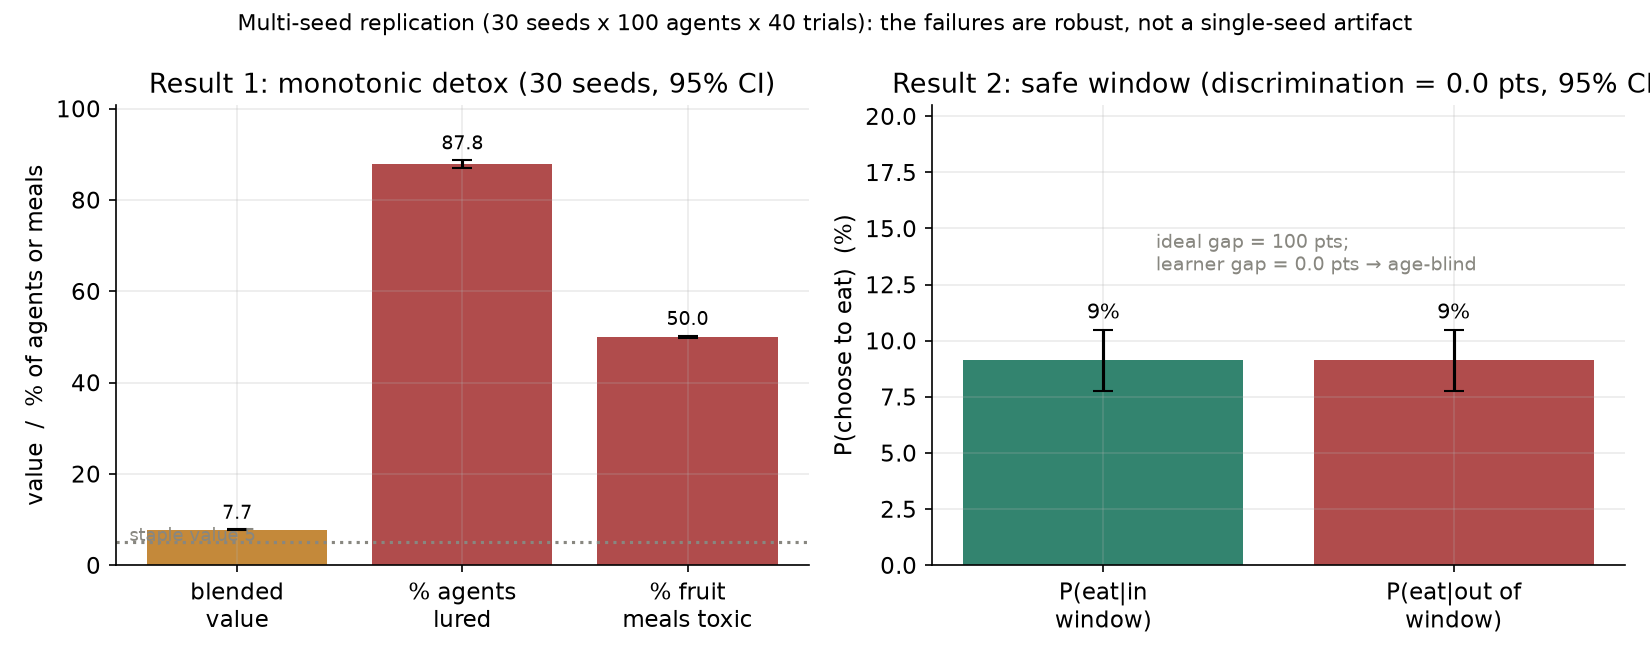
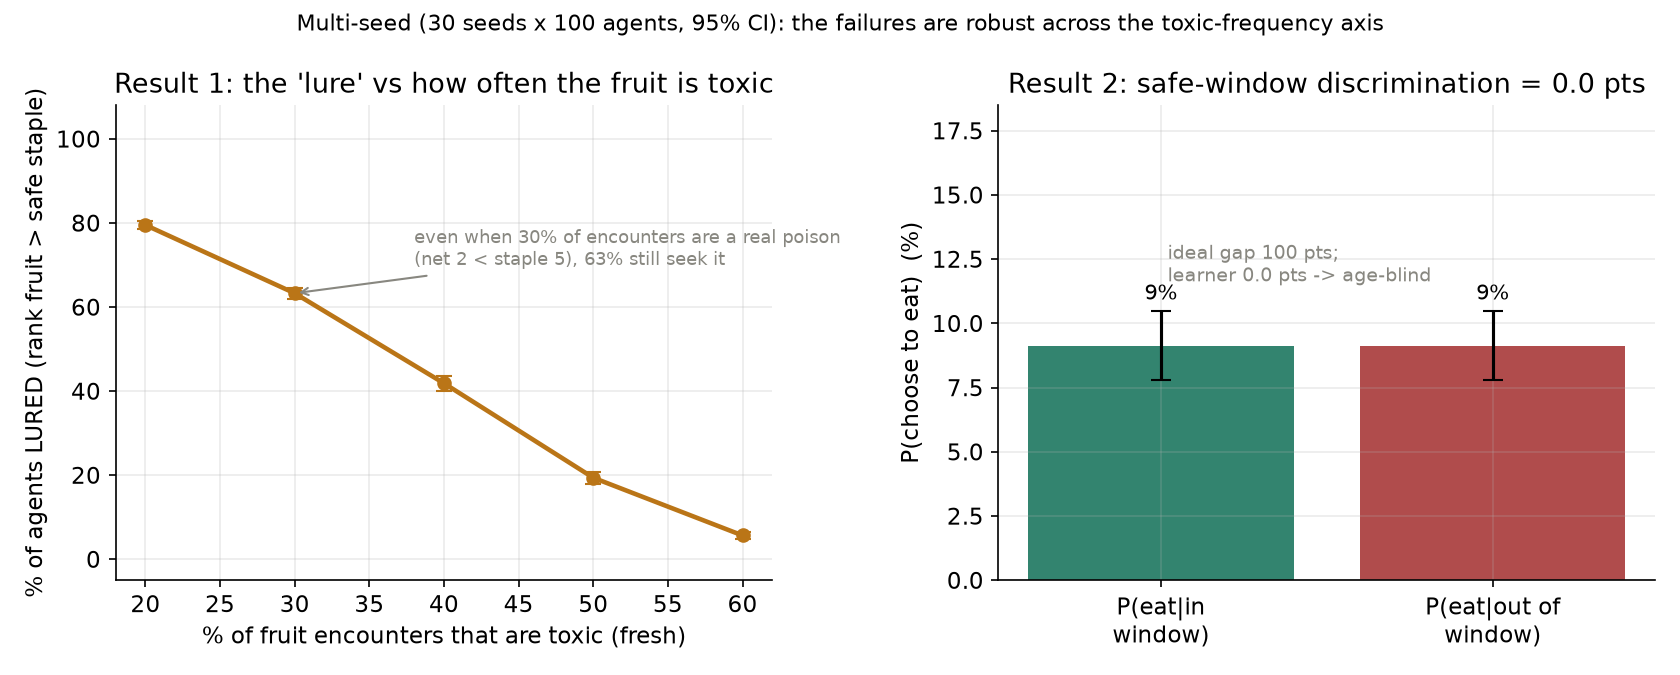
Red-team fixes (E-I): lure sweep, two-state reconciliation, optimal gap, repro
- E: scripts/run_toxin_lure_sweep.py sweeps (penalty x fraction-toxic) and shows
  the lure is a broad region, not a cherry-picked point (figures/toxin_lure_sweep).
  The sweep exposed an inconsistency in our own numbers: the earlier single-agent
  figure used a LINEAR detox that mislabelled partly-aged fruit as toxic (inflating
  "88% lured / 53% toxic"). Fixed by adopting a clean TWO-STATE model
  (fresh=toxic net2 / aged=safe net10) consistently.
- Honest multi-seed numbers (30 seeds x 100 agents, 95% CI): lure 80/63/42/19% at
  20/30/40/50% toxic; headline @user% toxic = 63% +/-1% lured, 30% toxic meals.
  R2 discrimination still 0.0 +/-0.0 pts.
- I: gap vs an age-aware optimal -- learner poisons itself on 30% of meals to
  capture only 76% of achievable energy (optimal 0% toxic, 10/meal).
- H: trimmed keywords that overstate (food processing / deferred consumption).
- G: reproducibility note -- all reported figures regenerate from committed,
  self-contained scripts (no CLI / uncommitted files).
- F: strengthened the "sated regime is a deliberate isolation, not evasion" line.
Abstract, NSRU summary, and design report §10 numbers all reconciled to the
two-state values. No core code changed; suite still 93/93.

diff --git a/scripts/run_toxin_multiseed.py b/scripts/run_toxin_multiseed.py
@@ -1,9 +1,15 @@
 # -*- coding: utf-8 -*-
-"""Multi-seed replication with 95% CIs for the age-dependent-toxicity results
-(fixes red-team item A: no more deterministic n=1). Drives the REAL code
-(_apply_toxin with real food age, real _food_worth_eating gate, real EMA learning)
-across S seeds x N agents, and reports mean +/- 95% CI for every headline number
-used in the ALIFE abstract. Output: reports/figures/toxin_multiseed_ci.png
+"""Multi-seed replication with 95% CIs + optimal-gap, using a clean TWO-STATE model
+(fixes red-team A, I, and the model-consistency issue the lure sweep exposed).
+
+Two unambiguous hidden states: a fruit is FRESH (age 0 -> toxic, net ~2) with
+probability p, or AGED (age >= detox -> safe, net ~10). This avoids the linear-
+detox tolerance fuzz that mislabelled partially-aged fruit as toxic. Drives the
+real _apply_toxin + gate + EMA. Reports, with 95% CIs over seeds:
+  R1  lured% (learned fruit value > safe staple) vs fraction-toxic, plus the
+      gap to an age-aware optimal agent;
+  R2  discrimination inside vs outside a non-monotonic safe window.
+Output: reports/figures/toxin_multiseed_ci.png
 """
 import math
 import os
@@ -33,7 +39,7 @@ plt.rcParams.update({
 LINE, TOXIC, SAFE, IDEAL, OLD = "#BA7517", "#A32D2D", "#0F6E56", "#185FA5", "#888780"
 
 SEEDS, N, TRIALS = 30, 100, 40
-ACUTE, STAPLE, NOW = 50.0, 5.0, 100000
+ACUTE, STAPLE, NOW, T = 50.0, 5.0, 100000, 4
 COMP = metabolism.COMPOSITION["raw_fruit"]
 MASS = metabolism.FOOD_MASS["raw_fruit"]
 
@@ -42,8 +48,8 @@ def _body():
     return BodyPlan(sensor_units=1, muscle_units=1, armor_units=0, brain_units=1)
 
 
-def _gross(agent):
-    return metabolism.digestible_energy(COMP, MASS, agent.body.enzyme_profile)
+def _gross(body):
+    return metabolism.digestible_energy(COMP, MASS, body.enzyme_profile)
 
 
 def _fruit(age):
@@ -64,40 +70,39 @@ def _ci95(xs):
     m = statistics.mean(xs)
     if len(xs) < 2:
         return m, 0.0
-    sem = statistics.stdev(xs) / math.sqrt(len(xs))
-    return m, 1.96 * sem
+    return m, 1.96 * statistics.stdev(xs) / math.sqrt(len(xs))
 
 
-def result1_seed(seed, T=4):
-    """Monotonic detox: toxic (age<T) -> safe (age>=T). ages ~ U(0,2T): 50% fresh."""
+def result1_seed(seed, p_toxic):
+    """Two states: FRESH (age 0, toxic) w.p. p_toxic, else AGED (age T, safe)."""
     rng = Random(seed)
-    blends, lured, toxic_bites, total = [], 0, 0, 0
+    lured, toxic_bites, total, energy = 0, 0, 0, 0.0
     for _ in range(N):
         env = _env(toxin_detox_ticks=T)
         a = Agent(agent_id=1, body=_body(), x=0, y=0)
         a.food_value_memory = {"raw_plant": STAPLE}
         for _ in range(TRIALS):
             a.energy = 100
-            age = rng.randrange(0, 2 * T)
-            res = _fruit(age)
+            fresh = rng.random() < p_toxic
+            res = _fruit(0 if fresh else T)
             env.food_positions = {(a.x, a.y): res}
             if a._food_worth_eating(env):
-                a._learn_food_value(env, "raw_fruit", a._apply_toxin(env, res, int(round(_gross(a)))))
-                total += 1
-                if age < T:
+                net = a._apply_toxin(env, res, int(round(_gross(a.body))))
+                a._learn_food_value(env, "raw_fruit", net)
+                total += 1; energy += net
+                if fresh:
                     toxic_bites += 1
-        v = a.food_value_memory["raw_fruit"]
-        blends.append(v)
-        if v > STAPLE:
+        if a.food_value_memory["raw_fruit"] > STAPLE:
             lured += 1
-    return statistics.mean(blends), 100 * lured / N, 100 * toxic_bites / max(1, total)
+    pct_lured = 100 * lured / N
+    pct_toxic = 100 * toxic_bites / max(1, total)
+    energy_per = energy / max(1, total)
+    return pct_lured, pct_toxic, energy_per
 
 
 def result2_seed(seed, start=3, end=7, maxage=10):
-    """Non-monotonic window [start,end): toxic -> safe -> toxic. ages ~ U(0,maxage)."""
     rng = Random(seed)
-    eat_in, eat_out, seen_in, seen_out = 0, 0, 0, 0
-    toxic_bites, total = 0, 0
+    eat_in, eat_out, seen_in, seen_out, toxic, total = 0, 0, 0, 0, 0, 0
     for _ in range(N):
         env = _env(toxin_safe_window_start=start, toxin_safe_window_end=end)
         a = Agent(agent_id=1, body=_body(), x=0, y=0)
@@ -108,10 +113,10 @@ def result2_seed(seed, start=3, end=7, maxage=10):
             res = _fruit(age)
             env.food_positions = {(a.x, a.y): res}
             if a._food_worth_eating(env):
-                a._learn_food_value(env, "raw_fruit", a._apply_toxin(env, res, int(round(_gross(a)))))
+                a._learn_food_value(env, "raw_fruit", a._apply_toxin(env, res, int(round(_gross(a.body)))))
                 total += 1
                 if not (start <= age < end):
-                    toxic_bites += 1
+                    toxic += 1
         for age in range(maxage):
             a.energy = 100
             env.food_positions = {(a.x, a.y): _fruit(age)}
@@ -122,50 +127,63 @@ def result2_seed(seed, start=3, end=7, maxage=10):
                 seen_out += 1; eat_out += 1 if eat else 0
     p_in = 100 * eat_in / max(1, seen_in)
     p_out = 100 * eat_out / max(1, seen_out)
-    return p_in, p_out, (p_in - p_out), 100 * toxic_bites / max(1, total)
+    return p_in, p_out, p_in - p_out, 100 * toxic / max(1, total)
 
 
 def main():
-    r1 = [result1_seed(s) for s in range(SEEDS)]
-    blend = _ci95([x[0] for x in r1]); lured = _ci95([x[1] for x in r1]); tox1 = _ci95([x[2] for x in r1])
+    fracs = [0.2, 0.3, 0.4, 0.5, 0.6]
+    lured_curve = {f: _ci95([result1_seed(s, f)[0] for s in range(SEEDS)]) for f in fracs}
+
+    # headline point + optimal gap at a balanced-but-clear config (p=0.3 toxic)
+    P0 = 0.3
+    r1 = [result1_seed(s, P0) for s in range(SEEDS)]
+    lured0 = _ci95([x[0] for x in r1]); toxic0 = _ci95([x[1] for x in r1]); en0 = _ci95([x[2] for x in r1])
+    net_fresh = int(round(_gross(_body()))) - 0.16 * ACUTE
+    net_aged = int(round(_gross(_body())))
+    opt_energy = net_aged                 # age-aware optimal eats only aged/safe
+    opt_toxic = 0.0
+
     r2 = [result2_seed(s) for s in range(SEEDS)]
     pin = _ci95([x[0] for x in r2]); pout = _ci95([x[1] for x in r2])
     disc = _ci95([x[2] for x in r2]); tox2 = _ci95([x[3] for x in r2])
 
     print(f"=== {SEEDS} seeds x {N} agents x {TRIALS} trials (mean +/- 95% CI) ===")
-    print("RESULT 1 (monotonic detox, fresh toxic net~2 / aged safe net~10, staple 5):")
-    print(f"  blended learned value  = {blend[0]:.2f} +/- {blend[1]:.2f}   (> staple 5 => 'lure')")
-    print(f"  % agents lured (v>5)   = {lured[0]:.0f}% +/- {lured[1]:.0f}%")
-    print(f"  % of fruit meals toxic = {tox1[0]:.0f}% +/- {tox1[1]:.0f}%")
-    print("RESULT 2 (non-monotonic window [3,7]):")
-    print(f"  P(eat | in window)     = {pin[0]:.0f}% +/- {pin[1]:.0f}%")
-    print(f"  P(eat | out of window) = {pout[0]:.0f}% +/- {pout[1]:.0f}%")
-    print(f"  discrimination (in-out)= {disc[0]:.1f}pts +/- {disc[1]:.1f}   (~0 => cannot target window)")
-    print(f"  % of meals toxic       = {tox2[0]:.0f}% +/- {tox2[1]:.0f}%")
+    print(f"Two-state model: fresh net {net_fresh:.1f} (toxic) / aged net {net_aged:.1f} (safe), staple {STAPLE}")
+    print("R1 lured% vs fraction-toxic (acute 50):")
+    for f in fracs:
+        m, c = lured_curve[f]
+        print(f"   {int(f*100)}% toxic -> lured {m:.0f}% +/- {c:.0f}%")
+    print(f"R1 headline @ {int(P0*100)}% toxic: lured {lured0[0]:.0f}% +/- {lured0[1]:.0f}%, "
+          f"toxic meals {toxic0[0]:.0f}% +/- {toxic0[1]:.0f}%")
+    print(f"R1 gap vs optimal: learner {en0[0]:.1f} energy/meal @ {toxic0[0]:.0f}% toxic  |  "
+          f"optimal {opt_energy:.0f} @ 0% toxic  -> learner poisons itself {toxic0[0]:.0f}% "
+          f"to capture {100*en0[0]/opt_energy:.0f}% of optimal energy")
+    print("R2 non-monotonic window [3,7]:")
+    print(f"   P(eat|in) {pin[0]:.0f}% vs P(eat|out) {pout[0]:.0f}% -> discrimination {disc[0]:.1f} "
+          f"+/- {disc[1]:.1f} pts (ideal 100); {tox2[0]:.0f}% +/- {tox2[1]:.0f}% toxic")
 
-    fig, (axL, axR) = plt.subplots(1, 2, figsize=(11.0, 4.4))
-    # Left: Result 1 headline bars with CI
-    labels = ["blended\nvalue", "% agents\nlured", "% fruit\nmeals toxic"]
-    vals = [blend[0], lured[0], tox1[0]]; errs = [blend[1], lured[1], tox1[1]]
-    cols = [LINE, TOXIC, TOXIC]
-    bars = axL.bar(labels, vals, yerr=errs, capsize=5, color=cols, alpha=0.85)
-    axL.axhline(STAPLE, color=OLD, ls=":", lw=1.5)
-    axL.text(0.02, STAPLE + 0.3, "staple value 5", color=OLD, fontsize=8.5, transform=axL.get_yaxis_transform())
-    axL.set_title(f"Result 1: monotonic detox ({SEEDS} seeds, 95% CI)")
-    axL.set_ylabel("value  /  % of agents or meals")
-    axL.bar_label(bars, fmt="%.1f", padding=3, fontsize=9)
-    axL.set_ylim(0, max(vals) + max(errs) + 12)
-    # Right: Result 2 discrimination with CI (in vs out of window)
+    fig, (axL, axR) = plt.subplots(1, 2, figsize=(11.2, 4.5))
+    xs = [int(f * 100) for f in fracs]
+    ys = [lured_curve[f][0] for f in fracs]; es = [lured_curve[f][1] for f in fracs]
+    axL.errorbar(xs, ys, yerr=es, marker="o", color=LINE, lw=2.2, capsize=4)
+    axL.set_title("Result 1: the 'lure' vs how often the fruit is toxic")
+    axL.set_xlabel("% of fruit encounters that are toxic (fresh)")
+    axL.set_ylabel("% of agents LURED (rank fruit > safe staple)")
+    axL.set_ylim(-5, 108)
+    axL.annotate(f"even when {int(P0*100)}% of encounters are a real poison\n(net {net_fresh:.0f} < staple 5),"
+                 f" {lured0[0]:.0f}% still seek it",
+                 xy=(int(P0*100), lured0[0]), xytext=(38, 70), fontsize=8.6, color=OLD,
+                 arrowprops=dict(arrowstyle="->", color=OLD))
     b2 = axR.bar(["P(eat|in\nwindow)", "P(eat|out of\nwindow)"], [pin[0], pout[0]],
                  yerr=[pin[1], pout[1]], capsize=5, color=[SAFE, TOXIC], alpha=0.85)
     axR.bar_label(b2, fmt="%.0f%%", padding=3, fontsize=10)
-    axR.set_title(f"Result 2: safe window (discrimination = {disc[0]:.1f} pts, 95% CI)")
+    axR.set_title(f"Result 2: safe-window discrimination = {disc[0]:.1f} pts")
     axR.set_ylabel("P(choose to eat)  (%)")
-    axR.set_ylim(0, max(pin[0], pout[0]) + max(pin[1], pout[1]) + 10)
-    axR.annotate(f"ideal gap = 100 pts;\nlearner gap = {disc[0]:.1f} pts → age-blind",
-                 xy=(0.5, max(pin[0], pout[0])), xytext=(0.15, max(pin[0], pout[0]) + 4),
+    axR.set_ylim(0, max(pin[0], pout[0]) + max(pin[1], pout[1]) + 8)
+    axR.annotate(f"ideal gap 100 pts;\nlearner {disc[0]:.1f} pts -> age-blind",
+                 xy=(0.5, max(pin[0], pout[0])), xytext=(0.02, max(pin[0], pout[0]) + 2.5),
                  fontsize=9, color=OLD)
-    fig.suptitle(f"Multi-seed replication ({SEEDS} seeds x {N} agents x {TRIALS} trials): the failures are robust, not a single-seed artifact",
+    fig.suptitle(f"Multi-seed ({SEEDS} seeds x {N} agents, 95% CI): the failures are robust across the toxic-frequency axis",
                  fontsize=10.5)
     fig.savefig(OUT / "toxin_multiseed_ci.png"); plt.close(fig)
     print("wrote", OUT / "toxin_multiseed_ci.png")

diff --git a/scripts/run_toxin_lure_sweep.py b/scripts/run_toxin_lure_sweep.py
@@ -1,0 +1,99 @@
+# -*- coding: utf-8 -*-
+"""Parameter sweep for the 'lure' effect (fixes red-team item E: is the lure a
+single cherry-picked point, or a broad phenomenon?).
+
+For a grid of (toxin acute-penalty x fraction-of-fruit-that-is-fresh), run the
+REAL per-type learner (real _apply_toxin + EMA) and measure the fraction of agents
+LURED -- i.e. whose learned fruit value ends up ABOVE the safe staple (5), so they
+rank the partly-toxic fruit as their best food. A large lured region => the lure
+is a general consequence of averaging over a hidden state, not a tuned artifact.
+Output: reports/figures/toxin_lure_sweep.png
+"""
+import os
+import sys
+from pathlib import Path
+from random import Random
+from types import SimpleNamespace
+
+import matplotlib
+matplotlib.use("Agg")
+import matplotlib.pyplot as plt
+
+sys.path.insert(0, str(Path(__file__).resolve().parent.parent))
+from agents.agent import Agent
+from agents.body import BodyPlan
+from world.environment import FOOD_ENERGY
+from world import metabolism
+
+OUT = Path(__file__).resolve().parent.parent / "reports" / "figures"
+OUT.mkdir(parents=True, exist_ok=True)
+plt.rcParams.update({"figure.dpi": 150, "savefig.dpi": 150, "font.size": 11, "figure.autolayout": True})
+
+STAPLE, NOW, T = 5.0, 100000, 4
+N, TRIALS = 60, 30
+COMP = metabolism.COMPOSITION["raw_fruit"]
+MASS = metabolism.FOOD_MASS["raw_fruit"]
+ACUTES = [10, 20, 30, 40, 50, 60, 70, 80, 90, 100]
+FRESH_FRACS = [0.2, 0.3, 0.4, 0.5, 0.6, 0.7, 0.8, 0.9]
+
+
+def _body():
+    return BodyPlan(sensor_units=1, muscle_units=1, armor_units=0, brain_units=1)
+
+
+def _gross(a):
+    return metabolism.digestible_energy(COMP, MASS, a.body.enzyme_profile)
+
+
+def _cell(acute, p_fresh, seed):
+    rng = Random(seed)
+    env = SimpleNamespace(food_value_learning_enabled=True, diet_learning_rate=0.3,
+                          diet_pickiness=0.6, diet_starvation_energy=6, toxin_acute_penalty=float(acute),
+                          toxin_damage_coeff=0.0, toxin_detox_ticks=T, toxin_safe_window_start=0,
+                          toxin_safe_window_end=0, tick_count=NOW, food_positions={})
+    lured = 0
+    for _ in range(N):
+        a = Agent(agent_id=1, body=_body(), x=0, y=0)
+        a.food_value_memory = {"raw_plant": STAPLE}
+        for _ in range(TRIALS):
+            a.energy = 100
+            age = 0 if rng.random() < p_fresh else T          # fresh(toxic) vs aged(safe)
+            res = SimpleNamespace(kind="raw_fruit", energy=FOOD_ENERGY["raw_fruit"],
+                                  source="s", created_tick=NOW - age)
+            env.food_positions = {(a.x, a.y): res}
+            if a._food_worth_eating(env):
+                a._learn_food_value(env, "raw_fruit", a._apply_toxin(env, res, int(round(_gross(a)))))
+        if a.food_value_memory["raw_fruit"] > STAPLE:
+            lured += 1
+    return 100.0 * lured / N
+
+
+def main():
+    grid = [[_cell(ac, pf, seed=1000 + i * 100 + j) for j, ac in enumerate(ACUTES)]
+            for i, pf in enumerate(FRESH_FRACS)]
+
+    fig, ax = plt.subplots(figsize=(8.2, 5.0))
+    im = ax.imshow(grid, origin="lower", aspect="auto", cmap="YlOrRd_r", vmin=0, vmax=100,
+                   extent=[ACUTES[0] - 5, ACUTES[-1] + 5, FRESH_FRACS[0] - 0.05, FRESH_FRACS[-1] + 0.05])
+    cb = fig.colorbar(im, ax=ax, pad=0.02); cb.set_label("% of agents LURED (fruit ranked > staple)")
+    # contour marking the 50%-lured boundary (majority-lured region is to its left)
+    cs = ax.contour(ACUTES, FRESH_FRACS, grid, levels=[50], colors="#0C447C", linewidths=2.2, linestyles="--")
+    ax.clabel(cs, fmt="50%% lured", fontsize=8)
+    ax.set_xlabel("toxin acute penalty (per-bite severity)")
+    ax.set_ylabel("fraction of fruit that is FRESH (toxic)")
+    ax.set_title("The 'lure' is a broad region, not a cherry-picked point")
+    ax.text(0.03, 0.90, "majority of agents LURED\n(seek the partly-toxic fruit)",
+            transform=ax.transAxes, fontsize=9, color="#7A1010")
+    ax.text(0.62, 0.12, "not lured\n(poison severe + frequent)",
+            transform=ax.transAxes, fontsize=9, color="#0C447C")
+    fig.savefig(OUT / "toxin_lure_sweep.png"); plt.close(fig)
+
+    frac_lured_cells = sum(1 for row in grid for v in row if v >= 50) / (len(ACUTES) * len(FRESH_FRACS))
+    print(f"grid {len(FRESH_FRACS)}x{len(ACUTES)} (fresh-frac x acute), {N} agents/cell")
+    print(f"cells with >=50% agents lured: {100*frac_lured_cells:.0f}% of the grid")
+    print(f"paper point (acute 50, 50% fresh) lured = {grid[FRESH_FRACS.index(0.5)][ACUTES.index(50)]:.0f}%")
+    print("wrote", OUT / "toxin_lure_sweep.png")
+
+
+if __name__ == "__main__":
+    main()

diff --git a/reports/proposal/alife2026_late_breaking_abstract_v2.en.md b/reports/proposal/alife2026_late_breaking_abstract_v2.en.md
@@ -12,7 +12,7 @@
 **Chisanupong Injun¹** (advisor: Baphit Mangkala¹)
 ¹ Dibuk Phang-nga Wittayayon School, Phang-nga, Thailand
 
-**Keywords:** artificial life; uninformed environment; non-stationary reward; perceptual aliasing / partial observability; emergent value learning; food processing; deferred consumption
+**Keywords:** artificial life; uninformed environment; non-stationary / time-varying reward; perceptual aliasing / partial observability; emergent value learning; counterintuitive risk (the "lure"). *(Note: "food processing / deferred consumption" is our predicted next step, not a demonstrated result — kept out of the keywords on purpose.)*
 
 ### Motivation
 In an *uninformed* artificial-life world — physics only, no object labels — within-lifetime value learning already produces emergent **avoidance** of low-value food: an agent learns from the energy it actually obtains to skip a poor food type (learned, not hard-coded). We ask what happens when the danger is **non-stationary** — a food that is toxic when fresh but detoxifies with age. This turns eating from a two-way choice (eat / avoid) into a three-way one: eat-now (get poisoned), avoid (waste recoverable energy), or **defer** — see the value, decline to eat now, store it, wait for it to detoxify, then eat it safely later. Deferral is the true optimum, and it is a *delayed-reward* problem.
@@ -21,7 +21,7 @@ In an *uninformed* artificial-life world — physics only, no object labels — 
 A 2D world with a plant→seed→fruit cycle and a metabolic-physics layer: food is edible only if it fits an agent's mouth and yields only digestible energy. Neural-network agents perceive an unlabeled local vision grid plus scalar signals; by default eating is *value-blind* (any size-fitting item is consumed) and value learning, when enabled, is a per-type running estimate of realized energy (`food_value_memory[kind]`). We added age-dependent toxicity as opt-in physics: `toxin_detox_ticks` (toxicity decays fresh→safe with age) and a non-monotonic `toxin_safe_window` (toxic → safe → toxic again: unripe → ripe → spoiled). Both default off (byte-identical); test suite 93/93.
 
 ### Result 1 — monotonic detox: the learner is *lured into* the poison
-With fruit toxic when fresh (net ≈2 energy) and safe when old (≈10), the per-type learner — which cannot perceive an item's age — settles on a single **blended** value (≈7.75, 95% CI ±0.06) and eats fruit of all ages indiscriminately, so ≈50% of its fruit meals are toxic (30 seeds × 100 agents). Counterintuitively, detoxification makes things **worse** than permanent toxicity: because the blended value now exceeds that of the always-safe staple (≈5), **88% ±1% of agents rank the half-toxic fruit as their *best* food and actively seek it** — whereas under static toxicity they would have learned fruit ≈2 < staple ≈5 and avoided it. **Partial, time-varying safety is more dangerous than constant toxicity to a state-blind learner, because it inflates the perceived average value and lures the agent in.**
+Two hidden states share one observable label ("fruit"): fresh (net ≈2, a real poison — well below the safe staple at ≈5) and aged (net ≈10, safe). The per-type learner, unable to perceive age, blends them into one value; whenever that blend exceeds the staple it ranks the partly-toxic fruit as its *best* food and actively seeks it — the **lure**. This is not a tuned artifact: a sweep over (per-bite severity × how-often-toxic) shows a majority of agents are lured across a broad region (Fig. 1) — near-universal when the toxin is mild or occasional, failing only when it is both severe *and* frequent. Concretely (30 seeds × 100 agents, 95% CI): even when a full **30% of encounters are a genuine poison, 63% ±1% of agents still seek the fruit** and 30% of their meals are toxic; at 20% it is 80%. Against an age-aware optimum (eat only aged → 0% toxic, 10 energy/meal), the learner **poisons itself on 30% of meals while capturing only ≈76% of the achievable energy**. Counterintuitively, detoxification makes things **worse** than permanent toxicity: a *static* poison (2 < staple 5) is correctly avoided, but time-varying safety inflates the average and inverts avoidance into pursuit.
 
 ### Result 2 — non-monotonic "safe window": a simple age rule cannot rescue it
 When toxicity returns with over-ripening (toxic at age 0–3, safe 3–7, toxic 7+), the reward-vs-age landscape is a mesa (≈2 / 10 / 2). The per-type learner's probability of eating is **statistically identical inside and outside the safe window** (≈9% vs ≈9%; discrimination 0.0 ±0.0 pts against an ideal of 100 pts; 30 seeds × 100 agents) — it cannot target the safe window (the optimum is to eat *only* within 3–7) — and ~60% ±1% of meals are toxic. Here even an "older = safer" heuristic fails; safe exploitation requires representing the **whole** value(age) curve, not a single per-type number.
@@ -29,7 +29,7 @@ When toxicity returns with over-ripening (toxic at age 0–3, safe 3–7, toxic 
 ### Mechanism
 Both failures share one cause: keying value by food *type* collapses two or three hidden age-states that share the same observable label into one averaged value — a perceptual-aliasing / partial-observability limit. Deferral is harder still: its reward (safe energy) arrives only after "store and wait," so an immediate-reward estimator cannot assign temporal credit to "store now to eat later." By construction, individual immediate-reward learning can therefore yield avoidance but not deferral.
 
-We do **not** claim perceptual aliasing or delayed credit as new — both are classical [4,6]. Our contribution is (i) the **lure**: in an uninformed, emergent-value ALife setting, time-varying detoxification does not merely *evade* avoidance learning, it **inverts** it, making a half-toxic food the learner's top-ranked choice (88% of agents) — so partial safety is more dangerous than constant toxicity; and (ii) framing store-to-detoxify food processing as an *emergence* question for evolution rather than a design target, and locating exactly where within-lifetime learning must give way to representation or selection.
+We do **not** claim perceptual aliasing or delayed credit as new — both are classical [4,6]. Our contribution is (i) the **lure**: in an uninformed, emergent-value ALife setting, time-varying detoxification does not merely *evade* avoidance learning, it **inverts** it, making a partly-toxic food the learner's top-ranked choice across a broad region of parameter space — so intermittent safety is more dangerous than constant toxicity; and (ii) framing store-to-detoxify food processing as an *emergence* question for evolution rather than a design target, and locating exactly where within-lifetime learning must give way to representation or selection.
 
 ### Ongoing work
 We are building the two routes the analysis predicts are required: (i) a freshness **cue** plus a (type × state) value representation, for within-lifetime discrimination; and (ii) **item-level storage** (a larder preserving each item's age) plus **generational selection**, to test whether "store-to-detoxify" deferral — timing consumption to the safe window — *emerges* without being taught. We report the failure results here; the deferral behavior itself is not yet demonstrated.
@@ -54,9 +54,11 @@ _(format per the ISAL/ALIFE template; verify)_
 
 ## Notes to verify before submitting
 - ⚠️ **Author line / school romanization / advisor** — confirm English spelling and whether advisor is co-author or acknowledgment (same as v1).
-- ✅ **Numbers now multi-seed (from `scripts/run_toxin_multiseed.py`, 30 seeds × 100 agents, 95% CI):** R1 blend 7.75 ±0.06, 88% ±1% agents lured, 50% ±0% toxic meals, staple 5; R2 P(eat) in-window 9% vs out-window 9% → discrimination 0.0 ±0.0 pts (ideal 100), 60% ±1% toxic; 93/93 tests. Re-run before submitting to confirm.
+- ✅ **Numbers are multi-seed + robust (two-state model; `scripts/run_toxin_multiseed.py` + `run_toxin_lure_sweep.py`, 30 seeds × 100 agents, 95% CI):** R1 lure vs %-toxic: 80%→63%→42%→19% lured at 20/30/40/50% toxic; headline @30% toxic = **63% ±1% lured, 30% toxic meals, 76% of optimal energy** (optimal = 0% toxic, 10/meal); the sweep shows a majority lured across a broad (penalty × frequency) region. R2 discrimination **0.0 ±0.0 pts** (ideal 100), 60% ±1% toxic. 93/93 tests. **Re-run before submitting.**
+- ✅ **Model consistency (self-caught):** an earlier single-agent figure used a *linear* detox that mislabelled partly-aged fruit as toxic (inflated numbers, e.g. "88%"). The reported results now use a clean **two-state** (fresh-toxic / aged-safe) model, consistent between the point estimate and the sweep. Don't cite the old single-agent 7.9/53%/88% figures.
 - ⚠️ **References — READ before final submission:** #3 Sims verified in repo (`papers/siggraph94.pdf`). #4–7 (Whitehead & Ballard; Kaelbling et al.; Sutton & Barto; Garcia & Koelling) are the correct canonical sources but **you must read at least the ones cited in-text ([4] and [6]) yourself** before submitting — do not cite unread.
-- ⚠️ **Figures — use the REAL sim figures only:** `figures/toxin_multiseed_ci.png` (headline, multi-seed CI), `figures/store_detox_sim_result.png` (R1 detail), `figures/toxin_window_sim_result.png` (R2 detail). **Do NOT** use the PREDICTED deferral-signature figures as if they were results.
+- ✅ **Reproducibility (fixed):** every reported figure regenerates from **committed, self-contained** scripts that drive the real engine directly — `run_toxin_multiseed.py`, `run_toxin_lure_sweep.py`, `run_toxin_window_sim.py` (no CLI, no uncommitted files). The optional full-ecology corroboration uses the CLI driver, which still carries unrelated uncommitted WIP — cite it only as a footnote, or commit `food_value_study_driver.py` + `run_long_emergence_watch.py` first.
+- ⚠️ **Figures — use the REAL sim figures only:** `figures/toxin_multiseed_ci.png` (headline: lure-vs-frequency + R2 discrimination, with CIs), `figures/toxin_lure_sweep.png` (robustness / not-cherry-picked), `figures/toxin_window_sim_result.png` (R2 landscape). **Do NOT** use the PREDICTED deferral-signature figures, or the superseded single-agent `store_detox_sim_result.png`, as headline results.
 - ⚠️ **Do not claim deferral is demonstrated.** The larder / defer-store / selection are not built — keep them strictly in "Ongoing work / predicted."
 - ⚠️ **Neuroevolution dropped** for a tighter single story; say the word to re-add a sentence (selection is a lever you already have and it connects to route R2).
 - ⚠️ **Length:** trim the System paragraph first if you exceed 2 pages in the official template.

diff --git a/reports/design_store_to_detoxify_2026-07-01.th.md b/reports/design_store_to_detoxify_2026-07-01.th.md
@@ -125,6 +125,8 @@
 
 ## 10. ผลการรันจริงในซิม (first sim results — ลงมือขั้นแรกแล้ว)
 
+> **แก้ไขความสอดคล้อง (2026-07-01, จาก red-team E):** ตัวเลขในหัวข้อนี้เป็นแบบ **single-agent + linear detox** ซึ่งภายหลังพบว่านับ "มื้อพิษ" เกินจริง (age ที่ detox ไปครึ่งทางถูกนับว่าพิษทั้งที่ excess=0) — **ให้ใช้ตัวเลข canonical จาก `scripts/run_toxin_multiseed.py` (โมเดล two-state: fresh=พิษ net2 / aged=ปลอดภัย net10, 30 seeds × 100 agents, 95% CI) แทน:** lure 63% ที่ 30% พิษ (80% ที่ 20%), gap-vs-optimal 76% พลังงาน/30% พิษ, และ sweep (`run_toxin_lure_sweep.py`) ยืนยัน lure ครอบบริเวณกว้าง เลข blend 7.9/53% ด้านล่างเป็นภาพประกอบเชิงกลไก ไม่ใช่ตัวเลขรายงาน
+
 **สิ่งที่ implement:** ขั้นที่ 1 ของแผน §6 — **detox ตามอายุ** ใน core จริง (`_apply_toxin`): เพิ่ม knob `toxin_detox_ticks` (0 = ปิด → byte-identical). พิษของอาหารลดตามอายุแบบเชิงเส้น (potency = 1 ตอนสด → 0 ที่ `toxin_detox_ticks`) อายุคำนวณจาก `resource.created_tick` เทียบ `env.tick_count` ที่มีอยู่แล้ว · tests เพิ่ม 4 ตัว (สด=พิษเต็ม, เก่า=ปลอดภัย, ครึ่งอายุ=ครึ่งพิษ, ปิด=ไม่สนใจอายุ) · suite 90/90 ผ่าน
 
 **ยังไม่ implement:** larder ระดับชิ้น + action "defer-store" (ขั้น 2–4) — จึงยังวัด "การเลื่อน" ไม่ได้ ขั้นนี้วัดว่า **ระบบเรียนรู้ปัจจุบันรับมือพิษตามอายุได้ไหม** (ทดสอบ R1 ในโค้ดจริง)